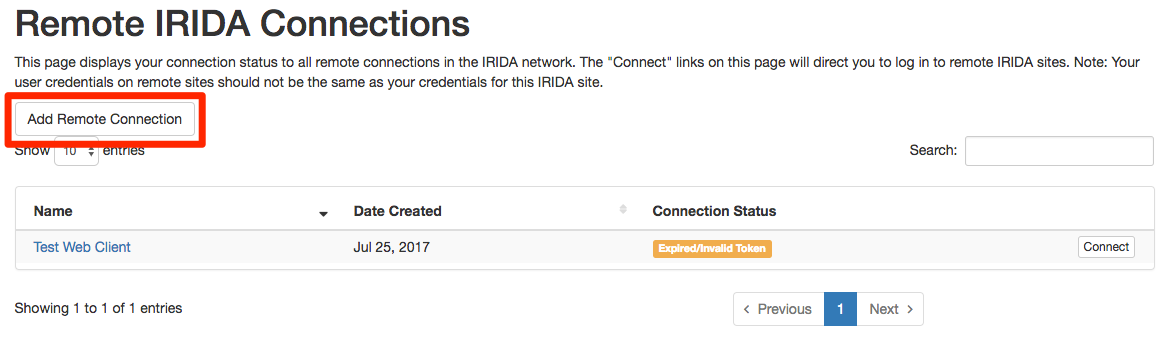
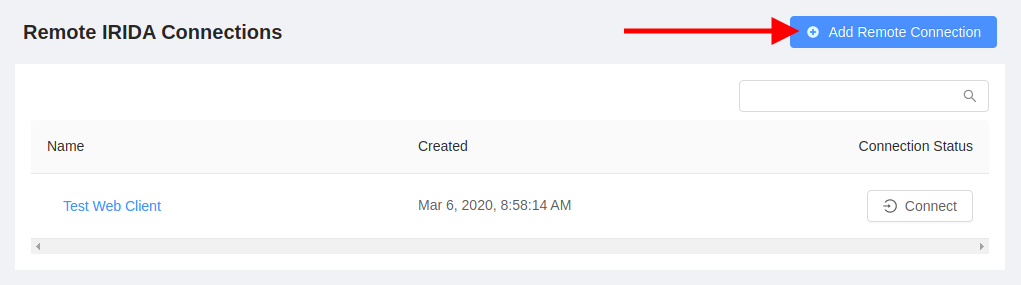
docs: Update image for remote listing page

diff --git a/src/main/webapp/resources/js/pages/remote-apis/RemoteApiStatus.jsx b/src/main/webapp/resources/js/pages/remote-apis/RemoteApiStatus.jsx
@@ -1,9 +1,10 @@
 import React, { useEffect, useState } from "react";
 import { Alert, Button } from "antd";
-import { Spinner } from "../../icons";
 import { checkConnectionStatus } from "../../apis/remote-api/remote-api";
 import { setBaseUrl } from "../../utilities/url-utilities";
 import { LoginOutlined } from "@ant-design/icons";
+import { IconLoading } from "../../components/icons/Icons";
+import { SPACE_XS } from "../../styles/spacing";
 
 export function RemoteApiStatus({ api, updateTable }) {
   const [loading, setLoading] = useState(true);
@@ -43,7 +44,10 @@ export function RemoteApiStatus({ api, updateTable }) {
   }
 
   return loading ? (
-    <Spinner text={i18n("RemoteApi.checking")} />
+    <span>
+      <IconLoading style={{ marginRight: SPACE_XS }} />
+      {i18n("RemoteApi.checking")}
+    </span>
   ) : (
     <div>
       {validToken ? (

diff --git a/doc/user/administrator/index.md b/doc/user/administrator/index.md
@@ -201,7 +201,7 @@ After being given the client credentials, go to the "Remote IRIDA Connections" p
 
 ![Remote API page](images/remote-api-dash.png)
 
-The Remote Connections page will display all currently available Remote Connections and their connection status with an IRIDA instance.
+The Remote Connections page will display all currently available Remote Connections, and their connection status with an IRIDA instance.
 
 To add a new connection, click the "Add Remote Connection" button:
 

diff --git a/CHANGELOG.md b/CHANGELOG.md
@@ -14,6 +14,7 @@ Changes
 * [Developer]: Added Apache 2.0 licence information to `package.json`.
 * [UI]: Fixed UI bugs preventing users from selecting single-end input files for analysis pipelines. (20.01.2)
 * [UI]: Icon cleanup preparing for upgrade to Ant Design v4.
+* [UI]: Updated Remote API Listing page to use Ant Design.
 
 19.09 to 20.01
 --------------
